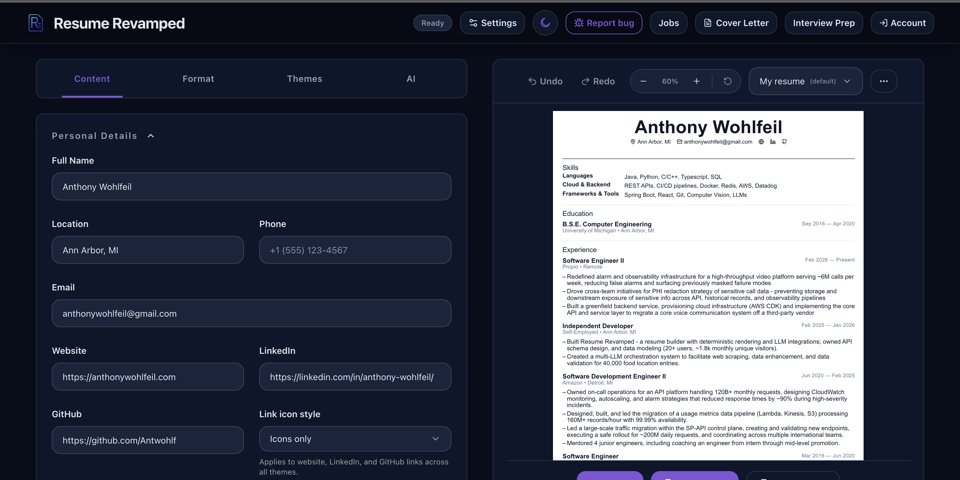
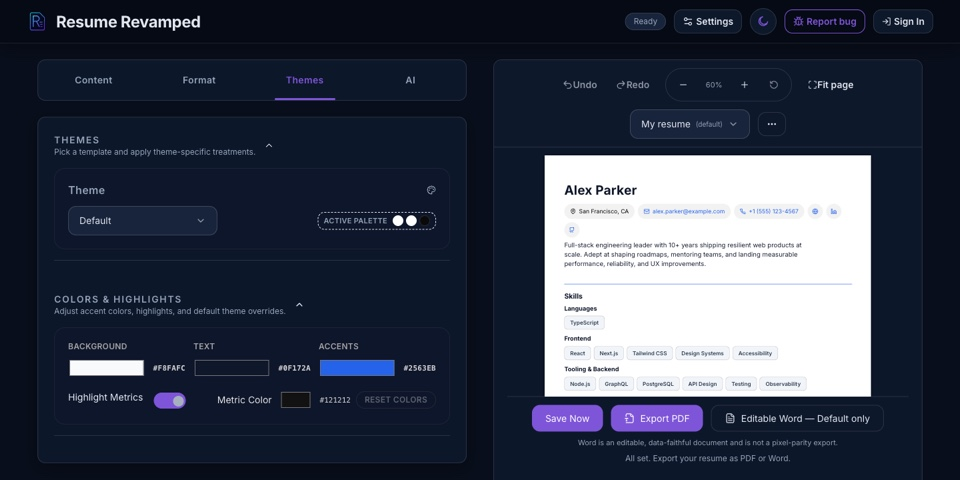
Add pipeline project and refresh project images

diff --git a/index.html b/index.html
@@ -130,6 +130,13 @@
 											</span>
 											<p>A development tracker for Ann Arbor and Detroit that brings permits and construction projects into one searchable feed and interactive map. It supports filters, verification badges, project details, and community-submitted tips.</p>
 										</div>
+										<div class="project-card" data-github="https://github.com/Antwohlf/map-data-aggregation-enhancement-pipeline" data-skills-languages="TypeScript" data-skills-frameworks="Node.js, Zod, Vitest" data-skills-hosting="PostgreSQL, GitHub Actions" data-skills-other="Data Engineering, ETL, Ollama">
+											<h2>Map Data Aggregation and Enhancement Pipeline</h2>
+											<span class="image main project-image-contain" style="margin-top: 0; margin-bottom: 10px;">
+												<img src="assets/images/image-placeholder.svg" decoding="async" loading="lazy" data-src="assets/images/map-data-pipeline.svg" alt="Diagram showing map data moving through adapters, product plugins, review, and publishing" width="1600" height="800" />
+											</span>
+											<p>The shared pipeline behind A Pizza Michigan, TacoBoutMichigan, and BuiltHere.city. Product-specific plugins and adapters handle collection, normalization, review, and publishing without mixing product rules.</p>
+										</div>
 										<div class="project-card" data-github="https://github.com/Antwohlf/multi-take-image-generation-pipeline" data-skills-languages="TypeScript" data-skills-frameworks="Node.js, Sharp, Commander.js, Zod, Vitest" data-skills-hosting="GitHub Actions" data-skills-other="OpenAI Image API">
 											<h2>Image Generation Pipeline</h2>
 											<span class="image main project-image-contain" style="margin-top: 0; margin-bottom: 10px;">
